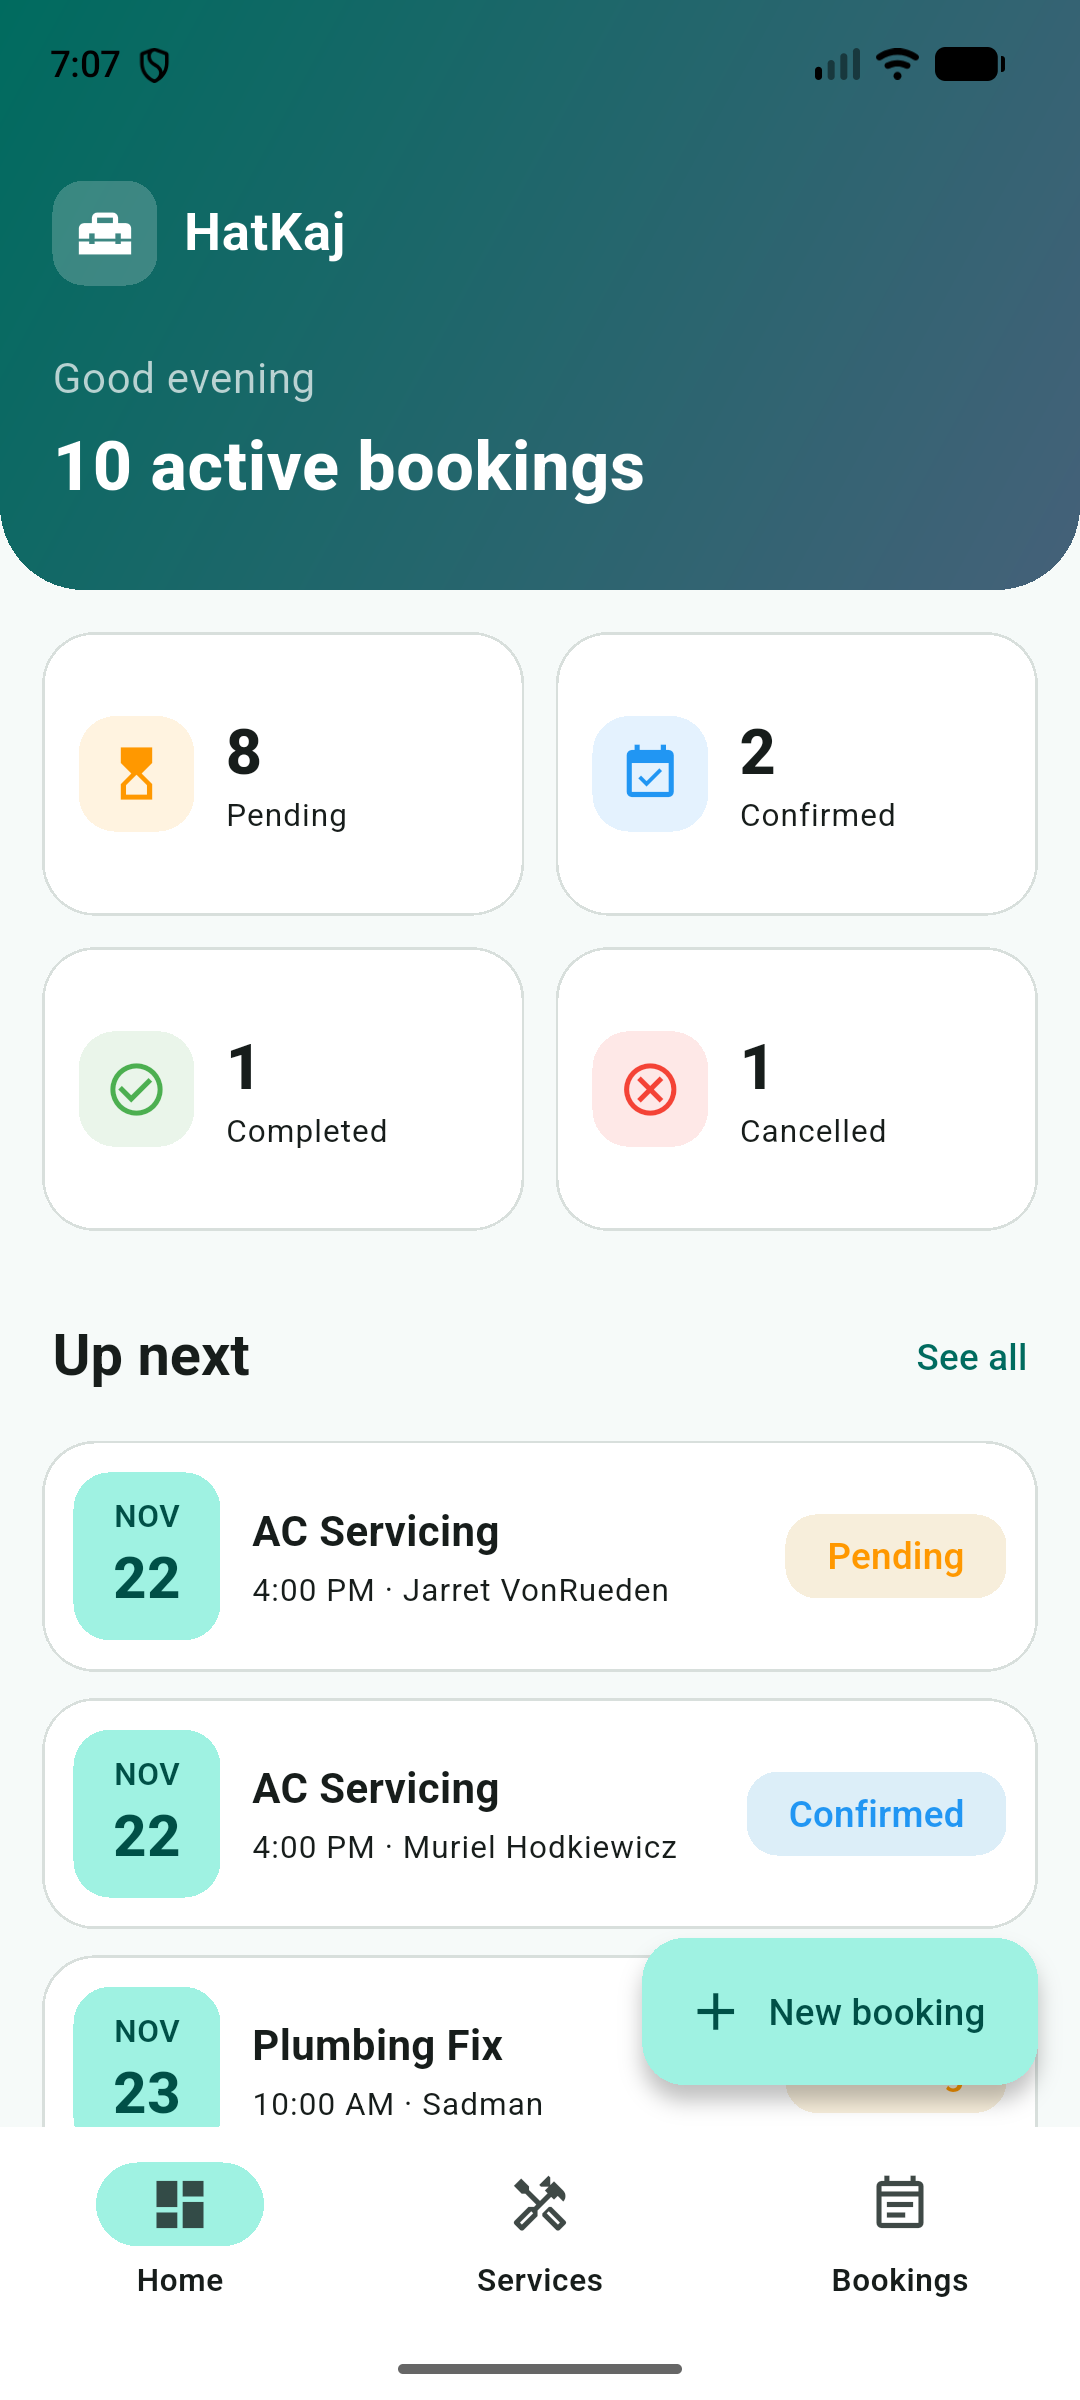
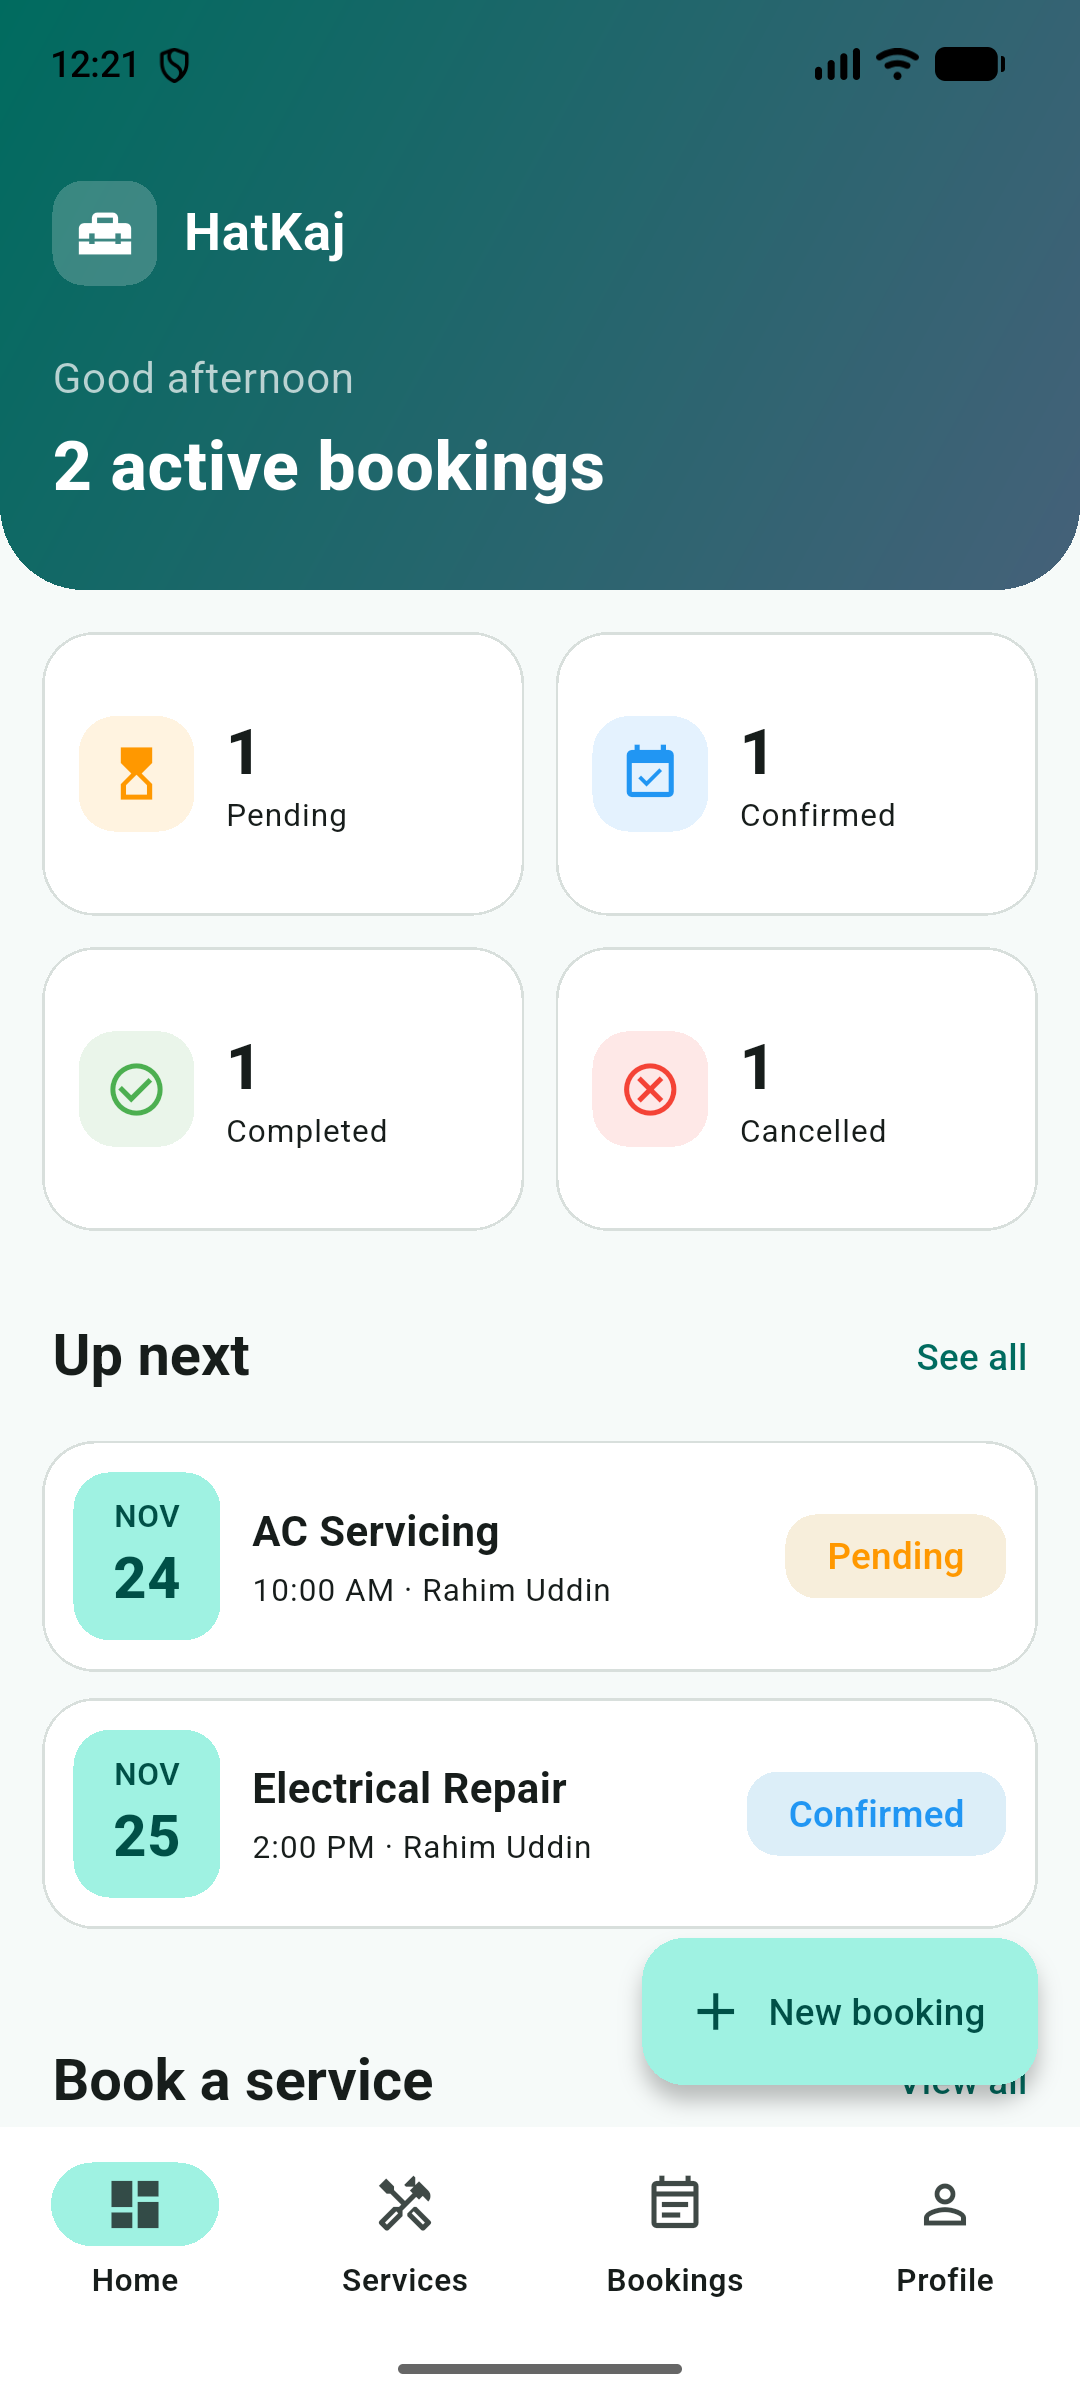
docs: refresh screenshots and update README to match the app
Re-capture all screenshots from the Android emulator and add login,
register, status menu, checkout, confirmation and profile screens.
Update the test badge to 38 and the dashboard and checkout feature notes.

diff --git a/README.md b/README.md
@@ -2,33 +2,43 @@
 
 ![Flutter](https://img.shields.io/badge/Flutter-3-02569B?logo=flutter&logoColor=white)
 ![State](https://img.shields.io/badge/state-Provider-0E9F8E)
-![Tests](https://img.shields.io/badge/tests-24%20passing-brightgreen)
+![Tests](https://img.shields.io/badge/tests-38%20passing-brightgreen)
 
 Flutter client for **HatKaj**, a smart maintenance and service booking platform. It talks to the Laravel [`hatkaj-api`](https://github.com/deXT-Sadman/hatkaj-api).
 
-Screenshots below are from the Android emulator running against the local API.
+Screenshots below are from the Android emulator running against the local API (signed in as a freshly registered user).
 
 <table>
   <tr>
+    <td align="center"><img src="docs/screenshots/login.png" width="220" alt="Log in screen"><br><sub><b>Log in</b></sub></td>
+    <td align="center"><img src="docs/screenshots/register.png" width="220" alt="Create account form"><br><sub><b>Sign up</b></sub></td>
     <td align="center"><img src="docs/screenshots/home.png" width="220" alt="Home dashboard with status counts and upcoming bookings"><br><sub><b>Home dashboard</b></sub></td>
+  </tr>
+  <tr>
     <td align="center"><img src="docs/screenshots/services.png" width="220" alt="Service list with icons, duration and price"><br><sub><b>Services</b></sub></td>
     <td align="center"><img src="docs/screenshots/bookings.png" width="220" alt="Bookings list with status filter chips"><br><sub><b>Bookings + filters</b></sub></td>
+    <td align="center"><img src="docs/screenshots/status.png" width="220" alt="Status menu showing only the transitions the API allows"><br><sub><b>Status update</b></sub></td>
   </tr>
   <tr>
     <td align="center"><img src="docs/screenshots/form.png" width="220" alt="New booking form"><br><sub><b>New booking</b></sub></td>
     <td align="center"><img src="docs/screenshots/conflict.png" width="220" alt="Slot conflict message returned by the API"><br><sub><b>Slot conflict (409)</b></sub></td>
+    <td align="center"><img src="docs/screenshots/checkout.png" width="220" alt="Review screen with price breakdown and payment method"><br><sub><b>Review &amp; confirm</b></sub></td>
+  </tr>
+  <tr>
+    <td align="center"><img src="docs/screenshots/confirmed.png" width="220" alt="Order confirmation"><br><sub><b>Confirmation</b></sub></td>
+    <td align="center"><img src="docs/screenshots/profile.png" width="220" alt="Profile screen with editable name, phone and address"><br><sub><b>Profile</b></sub></td>
     <td></td>
   </tr>
 </table>
 
 ## Features
-- **Home dashboard**: status counts (tap one to open Bookings filtered by it), the next upcoming bookings, and quick service shortcuts
+- **Home dashboard**: time-of-day greeting with the number of active bookings, status counts (tap one to open Bookings filtered by it), the next 3 upcoming bookings, quick service shortcuts and pull-to-refresh
 - **Services** list, and a **booking form** with validation and server errors shown inline (including the 409 "slot already booked")
 - **Bookings** list with pull-to-refresh, "load more" pagination and status filter chips
 - **Status updates**: tap a booking's status chip to see only the transitions the API allows
 - **Sign up / log in / log out** with a Sanctum API token kept in the device keystore (`flutter_secure_storage`); an expired token signs you out automatically
 - **Profile** tab: edit name, phone and default address, which pre-fill the booking form
-- **Checkout**: the booking form opens a review screen with the server's price breakdown (price, service fee, total), a payment method choice (cash on service or demo wallet; nothing is charged) and an order confirmation
+- **Checkout**: the booking form calls `POST /bookings/preview` and opens a review screen with the server's price breakdown (price, service fee, total), a payment method choice (cash on service or demo wallet; nothing is charged) and an order confirmation
 - Explicit loading / empty / error / success states on every screen
 
 ## Setup
